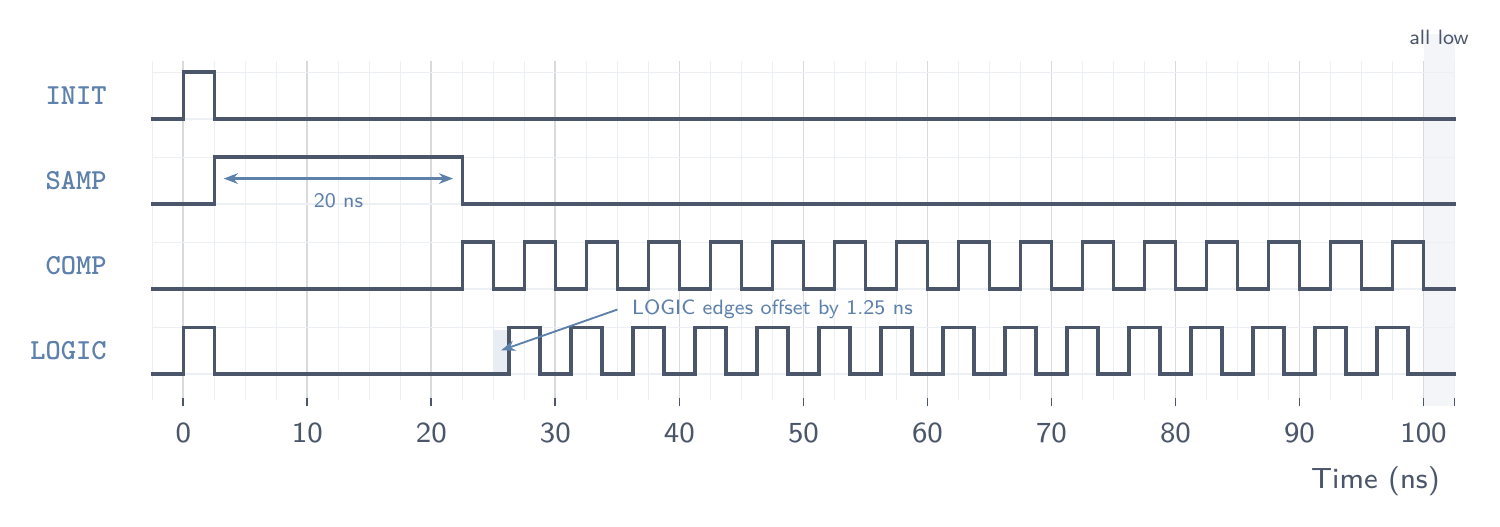
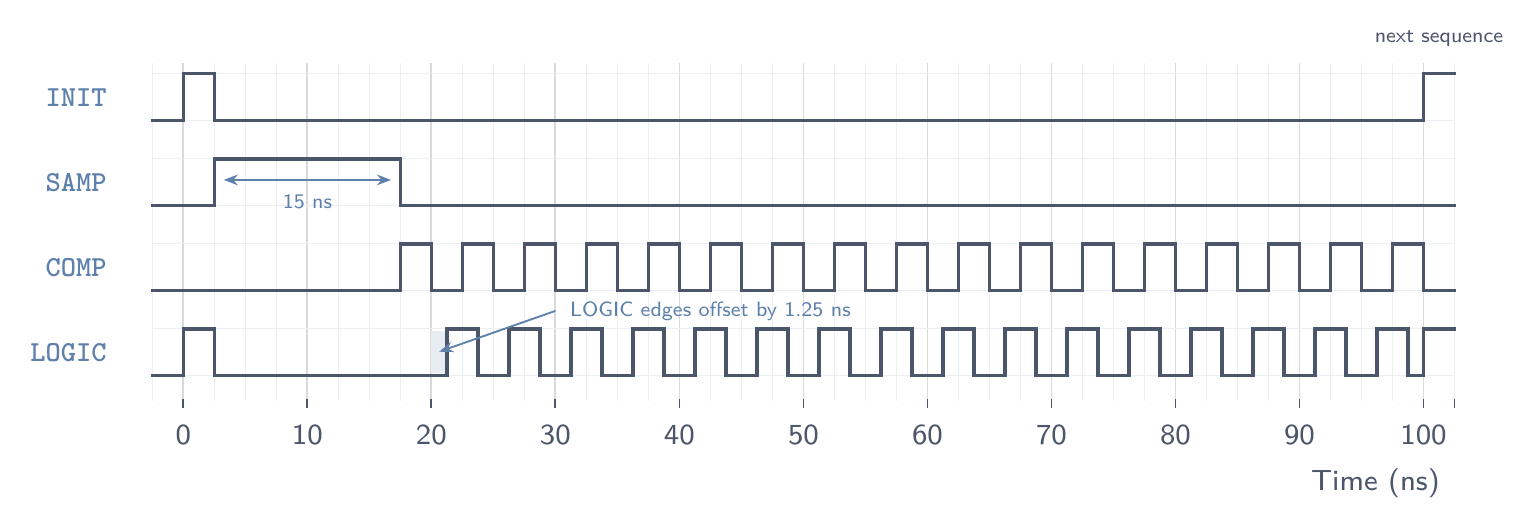
docs(adc): correct sequencer timing guide
- Show the 15 ns sampling window and complete 17-decision sequence.\n- Update the guide text and regenerated timing diagram outputs.

diff --git a/docs/images/adc_sequencer_timing.tex b/docs/images/adc_sequencer_timing.tex
@@ -20,7 +20,6 @@
   % Each sequencer window is 2.5 ns. LOGIC is shifted by the propagation
   % delay t_pd while retaining a 2.5 ns high time and a 5 ns period.
   \def\logicdelay{1.25}
-  \fill[NordPanel!65] (100,-0.38) rectangle (102.5,4.00);
   \draw[guide] (-2.5,-0.30) -- (-2.5,3.68);
   \foreach \t in {0,2.5,...,102.5} {
     \draw[guide] (\t,-0.30) -- (\t,3.68);
@@ -40,43 +39,48 @@
       at (-5,{\y+0.27}) {\name};
   }
 
-  % INIT is high for one 2.5 ns window at the start of the sequence.
+  % INIT is high for one 2.5 ns window at the start of each sequence.
   \draw[waveform]
-    (-2.5,3) -- (0,3) -- (0,3.55) -- (2.5,3.55) -- (2.5,3) -- (102.5,3);
+    (-2.5,3) -- (0,3) -- (0,3.55) -- (2.5,3.55) -- (2.5,3) --
+    (100,3) -- (100,3.55) -- (102.5,3.55);
 
-  % SAMP remains high for eight windows, providing a 20 ns acquisition time.
+  % SAMP remains high for six windows, providing a 15 ns acquisition time.
   \draw[waveform]
-    (-2.5,2) -- (2.5,2) -- (2.5,2.55) -- (22.5,2.55) -- (22.5,2) -- (102.5,2);
+    (-2.5,2) -- (2.5,2) -- (2.5,2.55) -- (17.5,2.55) -- (17.5,2) -- (102.5,2);
   \draw[{Stealth[length=1.2mm]}-{Stealth[length=1.2mm]}, draw=NordBlue, line width=0.55pt]
-    (3.25,2.30) -- node[below, text=NordBlue, font=\sffamily\tiny]{20 ns} (21.75,2.30);
+    (3.25,2.30) -- node[below, text=NordBlue, font=\sffamily\tiny]{15 ns} (16.75,2.30);
 
-  % Sixteen COMP windows alternate with fifteen conversion LOGIC windows.
-  % The sixteenth LOGIC pulse is the initialization pulse at 0--2.5 ns.
-  \draw[waveform] (-2.5,1) -- (22.5,1);
-  \foreach \k in {0,...,15} {
-    \pgfmathsetmacro{\compstart}{22.5 + 5*\k}
-    \pgfmathsetmacro{\compstop}{25 + 5*\k}
-    \pgfmathsetmacro{\pairstop}{27.5 + 5*\k}
+  % Seventeen COMP windows alternate with sixteen conversion LOGIC windows.
+  % The initialization LOGIC pulse at 0--2.5 ns is separate.
+  \draw[waveform] (-2.5,1) -- (17.5,1);
+  \foreach \k in {0,...,16} {
+    \pgfmathsetmacro{\compstart}{17.5 + 5*\k}
+    \pgfmathsetmacro{\compstop}{20 + 5*\k}
+    \pgfmathsetmacro{\pairstop}{22.5 + 5*\k}
     \draw[waveform]
       (\compstart,1) -- (\compstart,1.55) -- (\compstop,1.55) -- (\compstop,1) -- (\pairstop,1);
   }
   \draw[waveform]
-    (-2.5,0) -- (0,0) -- (0,0.55) -- (2.5,0.55) -- (2.5,0) -- ({25+\logicdelay},0);
+    (-2.5,0) -- (0,0) -- (0,0.55) -- (2.5,0.55) -- (2.5,0) -- ({20+\logicdelay},0);
   \fill[NordBlue!14]
-    (25,0.03) rectangle ({25+\logicdelay},0.52);
-  \foreach \k in {0,...,14} {
-    \pgfmathsetmacro{\logicstart}{25 + \logicdelay + 5*\k}
-    \pgfmathsetmacro{\logicstop}{27.5 + \logicdelay + 5*\k}
-    \pgfmathsetmacro{\nextlogicstart}{30 + \logicdelay + 5*\k}
-    \draw[waveform]
-      (\logicstart,0) -- (\logicstart,0.55) -- (\logicstop,0.55) -- (\logicstop,0) -- (\nextlogicstart,0);
+    (20,0.03) rectangle ({20+\logicdelay},0.52);
+  \foreach \k in {0,...,15} {
+    \pgfmathsetmacro{\logicstart}{20 + \logicdelay + 5*\k}
+    \pgfmathsetmacro{\logicstop}{22.5 + \logicdelay + 5*\k}
+    \ifnum\k<15
+      \pgfmathsetmacro{\nextlogicstart}{25 + \logicdelay + 5*\k}
+      \draw[waveform]
+        (\logicstart,0) -- (\logicstart,0.55) -- (\logicstop,0.55) -- (\logicstop,0) -- (\nextlogicstart,0);
+    \else
+      \draw[waveform]
+        (\logicstart,0) -- (\logicstart,0.55) -- (\logicstop,0.55) -- (\logicstop,0) -- (100,0);
+    \fi
   }
-  \draw[waveform] (100,1) -- (102.5,1);
-  \draw[waveform] ({97.5+\logicdelay},0) -- (102.5,0);
+  \draw[waveform] (100,0) -- (100,0.55) -- (102.5,0.55);
 
   \draw[-{Stealth[length=1.2mm]}, draw=NordBlue, line width=0.45pt]
-    (35,0.76) node[anchor=west, text=NordBlue, font=\sffamily\tiny]{LOGIC edges offset by 1.25 ns}
-    -- ({25+0.5*\logicdelay},0.28);
-  \node[anchor=south, text=NordBody, font=\sffamily\tiny] at (101.25,3.70) {all low};
+    (30,0.76) node[anchor=west, text=NordBlue, font=\sffamily\tiny]{LOGIC edges offset by 1.25 ns}
+    -- ({20+0.5*\logicdelay},0.28);
+  \node[anchor=south, text=NordBody, font=\sffamily\tiny] at (101.25,3.70) {next sequence};
 \end{tikzpicture}
 \end{document}

diff --git a/docs/slides/2026_08_18_adc_guide.tex b/docs/slides/2026_08_18_adc_guide.tex
@@ -130,9 +130,9 @@
     \textbf{Track} & \textbf{ADC pin} & \textbf{Required action} \\
     \midrule
     INIT & \pin{seq_init} & Pulse INIT and LOGIC together for one 2.5 ns window. \\
-    SAMP & \pin{seq_samp} & Hold high for 20 ns to acquire both differential inputs. \\
-    COMP & \pin{seq_comp} & Apply sixteen 2.5 ns high windows on a 5 ns period. \\
-    LOGIC & \pin{seq_update} & Pulse once with INIT, then apply fifteen delayed 2.5 ns update windows. \\
+    SAMP & \pin{seq_samp} & Hold high for 15 ns to acquire both differential inputs. \\
+    COMP & \pin{seq_comp} & Apply seventeen 2.5 ns high windows on a 5 ns period. \\
+    LOGIC & \pin{seq_update} & Pulse once with INIT, then apply sixteen delayed 2.5 ns update windows. \\
     \bottomrule
   \end{tabular}
 \end{frame}
